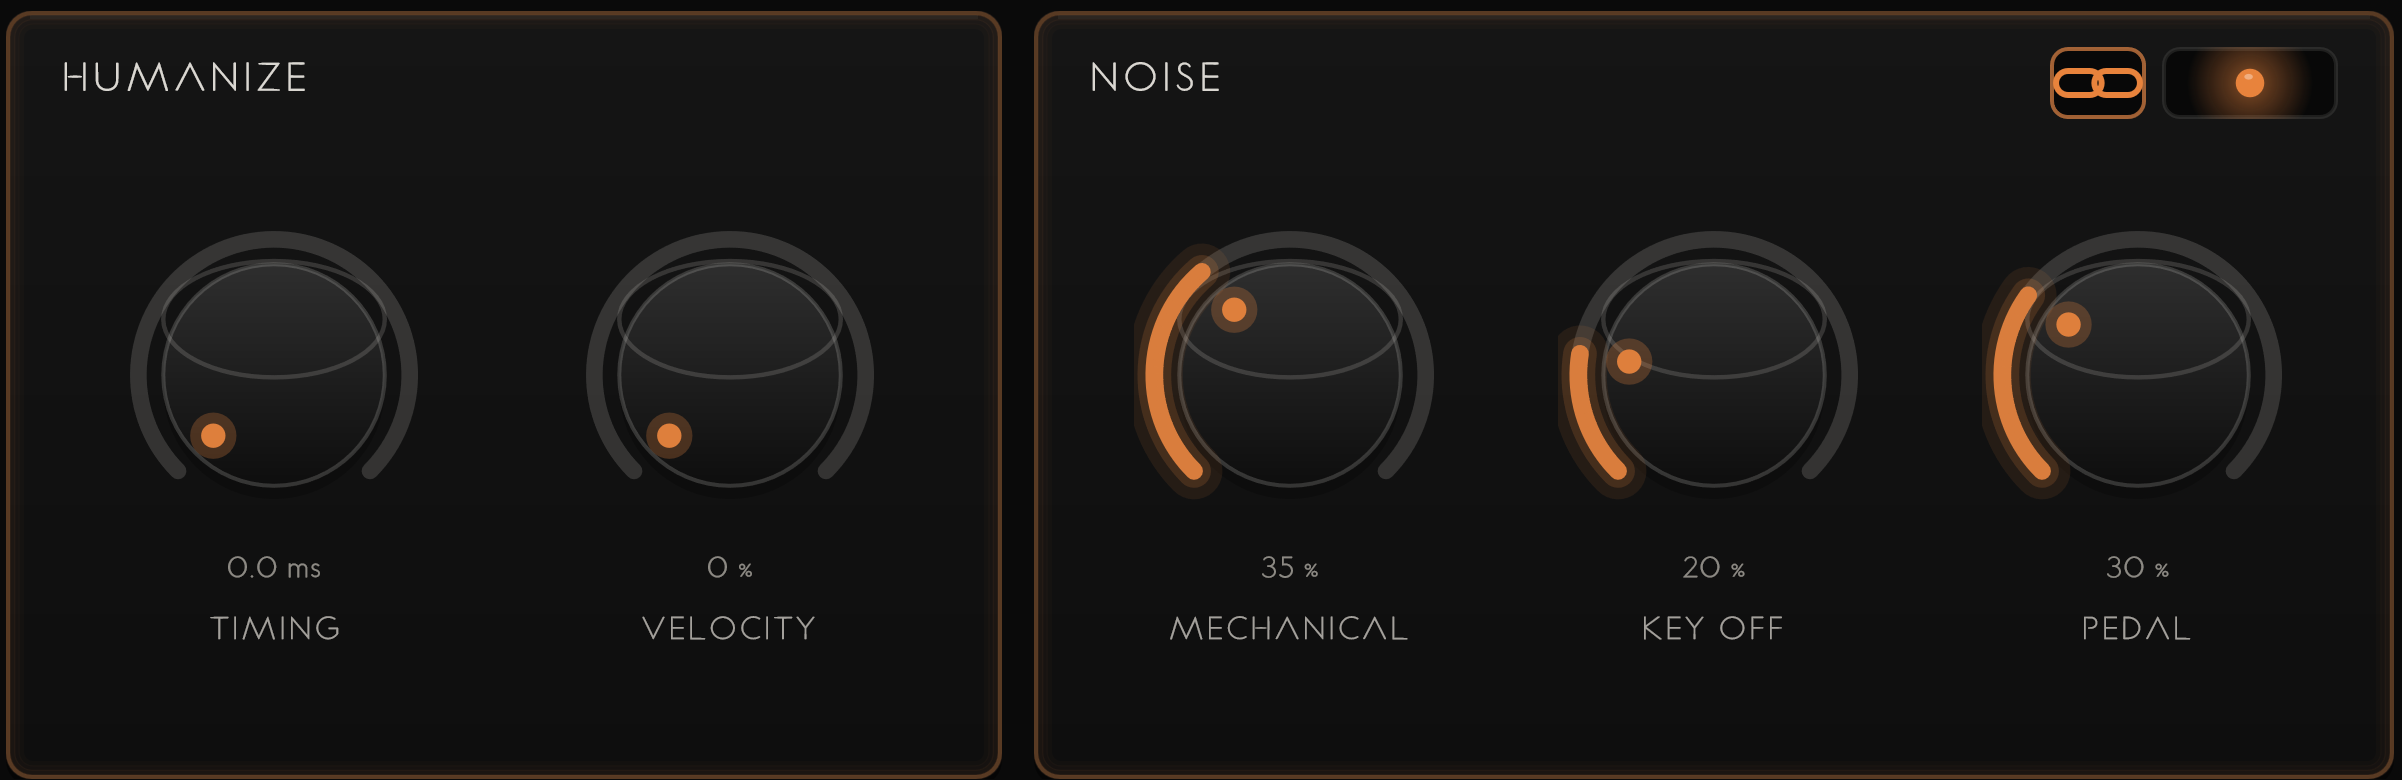
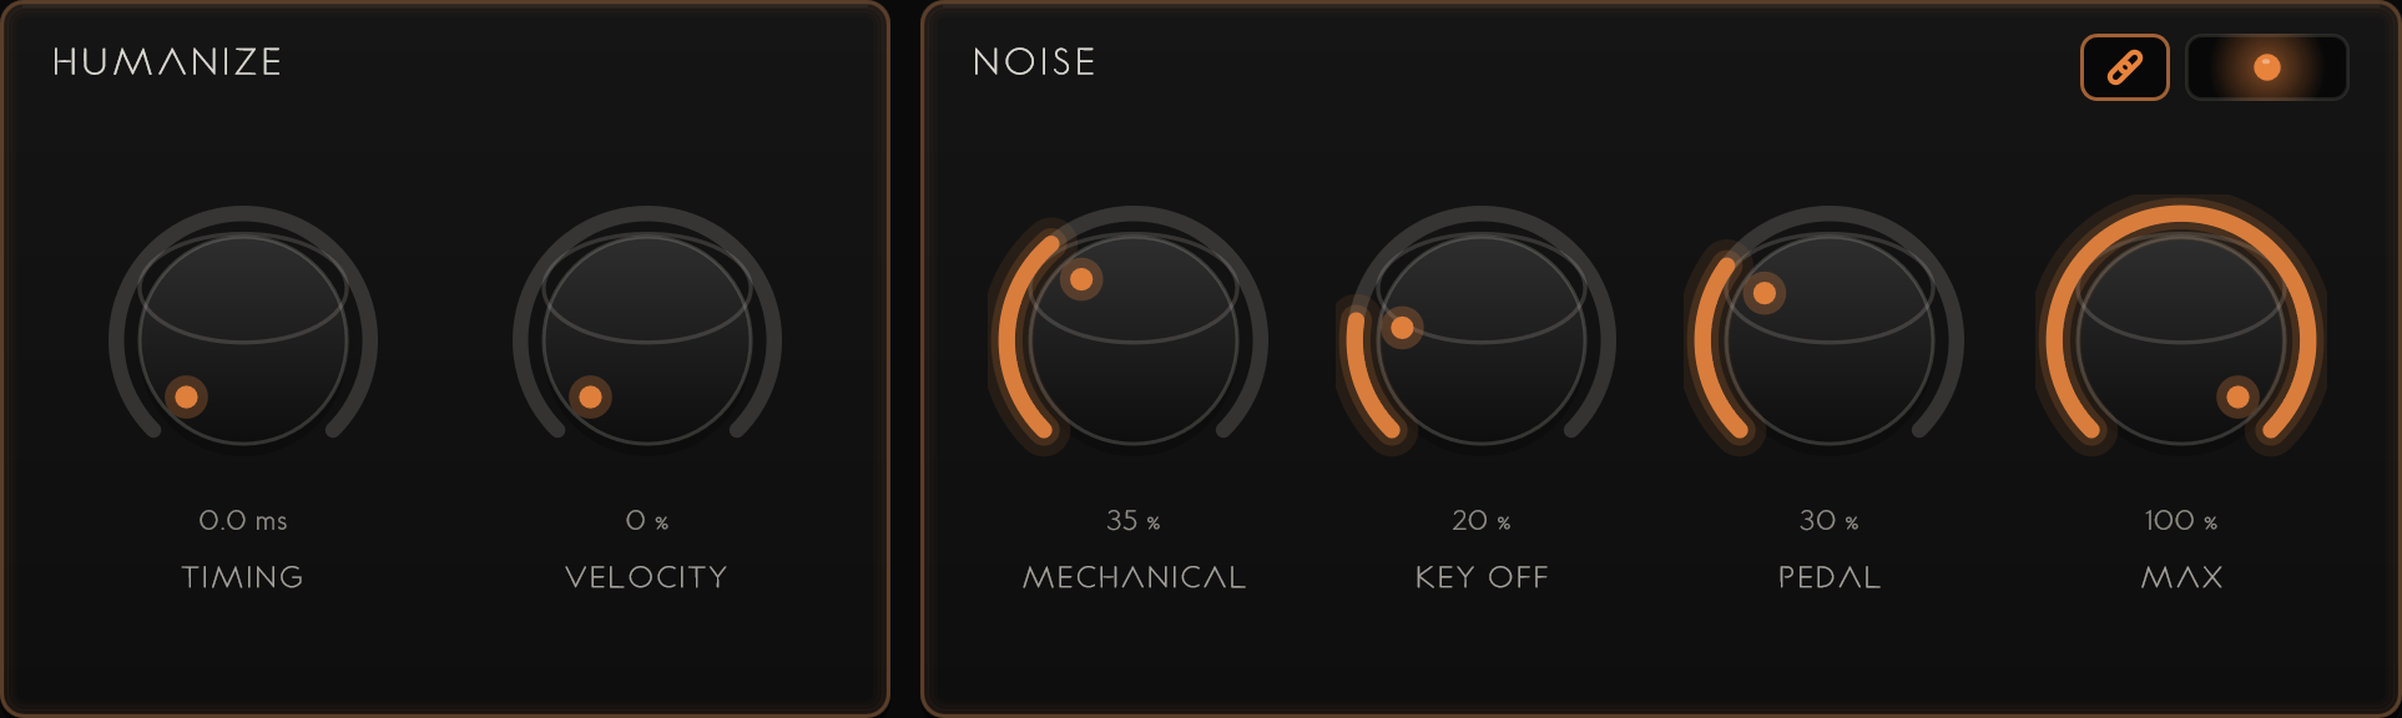
Refresh ISI Bass screenshots for the new tab layout
New hero, gallery and close-up images, with alt text and copy updated for
where the engine, velocity and sample controls now live.

diff --git a/src/lib/tools/instrument-landings.ts b/src/lib/tools/instrument-landings.ts
@@ -46,7 +46,8 @@ export type InstrumentLanding = {
 }
 
 const root = '/Plugin Screenshots/Details'
-export const landingShotSrc = (file: string) => encodeURI(`${root}/${file}`)
+export const landingShotSrc = (file: string) =>
+  encodeURI(`${root}/${file}`) + (file.startsWith('bass-') ? '?v=2' : '')
 
 export const INSTRUMENT_LANDINGS: Record<string, InstrumentLanding> = {
   'isi-bass': {
@@ -77,7 +78,7 @@ export const INSTRUMENT_LANDINGS: Record<string, InstrumentLanding> = {
         shot: {
           file: 'bass-keyboard.png',
           width: 2600,
-          height: 543,
+          height: 544,
           cssWidth: 1160,
           alt: 'ISI Bass full width playable keyboard with volume and tone faders',
         },
@@ -95,9 +96,9 @@ export const INSTRUMENT_LANDINGS: Record<string, InstrumentLanding> = {
         shot: {
           file: 'bass-engines.png',
           width: 2600,
-          height: 680,
+          height: 664,
           cssWidth: 746,
-          alt: 'ISI Bass engine selector with the 808 controls: decay, pitch drop, drop time, punch, drive, tone and octave',
+          alt: 'ISI Bass engine selector for sample, synth and 808, with release and humanize controls',
         },
       },
       {
@@ -111,9 +112,9 @@ export const INSTRUMENT_LANDINGS: Record<string, InstrumentLanding> = {
         shot: {
           file: 'bass-slide-presets.png',
           width: 1633,
-          height: 780,
+          height: 601,
           cssWidth: 408,
-          alt: 'ISI Bass slide controls and eleven 808 presets',
+          alt: 'ISI Bass 808 sculpt, sweep, drive and slide controls',
         },
         flip: true,
       },
@@ -125,7 +126,7 @@ export const INSTRUMENT_LANDINGS: Record<string, InstrumentLanding> = {
         shot: {
           file: 'bass-synth.png',
           width: 2600,
-          height: 437,
+          height: 432,
           cssWidth: 1160,
           alt: 'ISI Bass synth page with oscillators, filter and voice controls',
         },
@@ -143,7 +144,7 @@ export const INSTRUMENT_LANDINGS: Record<string, InstrumentLanding> = {
         shot: {
           file: 'bass-voicing-tone.png',
           width: 2600,
-          height: 798,
+          height: 796,
           cssWidth: 652,
           alt: 'ISI Bass instrument voicings with tone and character controls',
         },
@@ -157,7 +158,7 @@ export const INSTRUMENT_LANDINGS: Record<string, InstrumentLanding> = {
         shot: {
           file: 'bass-amp-cab.png',
           width: 2007,
-          height: 801,
+          height: 802,
           cssWidth: 502,
           alt: 'ISI Bass amp and cabinet selection with output level, pan and LED meter',
         },
@@ -173,7 +174,7 @@ export const INSTRUMENT_LANDINGS: Record<string, InstrumentLanding> = {
         shot: {
           file: 'bass-humanize-noise.png',
           width: 2402,
-          height: 780,
+          height: 718,
           cssWidth: 600,
           alt: 'ISI Bass humanize and noise controls',
         },
@@ -186,22 +187,22 @@ export const INSTRUMENT_LANDINGS: Record<string, InstrumentLanding> = {
         shot: {
           file: 'bass-velocity.png',
           width: 2215,
-          height: 780,
+          height: 856,
           cssWidth: 554,
-          alt: 'ISI Bass draggable velocity curve and release control',
+          alt: 'ISI Bass envelope controls and draggable velocity curve',
         },
       },
       {
         eyebrow: 'Performance',
         title: 'Mono, poly, glide and envelope.',
-        body: 'Switch between mono and poly, set glide, pitch bend range and velocity sensitivity, and shape attack, decay, sustain and release with a live envelope display.',
-        chips: ['Mono / Poly', 'Glide', 'Bend range', 'Vel sense', 'ADSR'],
+        body: 'Switch between mono and poly, set glide, pitch bend range and velocity sensitivity, and shape attack, decay, sustain and release with a live envelope display. Load your own samples here too.',
+        chips: ['Mono / Poly', 'Glide', 'Bend range', 'Vel sense', 'ADSR', 'Your own samples'],
         shot: {
           file: 'bass-performance.png',
           width: 2600,
-          height: 437,
+          height: 432,
           cssWidth: 1160,
-          alt: 'ISI Bass performance page with voice and envelope controls',
+          alt: 'ISI Bass performance page with voice, envelope, velocity and sample controls',
         },
         wide: true,
       },
@@ -212,14 +213,13 @@ export const INSTRUMENT_LANDINGS: Record<string, InstrumentLanding> = {
         points: [
           ['LFO and macro', 'Rate, amount, and a macro that moves several things at once.'],
           ['Sidechain ducking', 'Amount, attack and release, driven by your kick.'],
-          ['Your own samples', 'Load audio from your content folder for the sample engine.'],
         ],
         shot: {
           file: 'bass-mod.png',
           width: 2600,
-          height: 437,
+          height: 432,
           cssWidth: 1160,
-          alt: 'ISI Bass modulation, sidechain, source and sample controls',
+          alt: 'ISI Bass modulation and sidechain controls',
         },
         wide: true,
       },

diff --git a/src/lib/tools/plugins.ts b/src/lib/tools/plugins.ts
@@ -104,7 +104,7 @@ const SCREENSHOT_SIZES: Record<string, [number, number]> = {
  *  hours, so a new ?v= makes them fetch the new file instead of showing the old one. */
 const SCREENSHOT_VERSIONS: Record<string, number> = {
   'IA2A': 3,
-  'ISI Bass': 3,
+  'ISI Bass': 4,
   'Isynth 7': 1,
   'ISI Vox': 1,
   'IPI': 2,
@@ -285,11 +285,11 @@ const PLUGIN_DEFS: PluginSpec[] = [
     code: 'Isib',
     dawCategory: 'Instrument',
     gallery: [
-      { label: 'Main', src: encodeURI('/Plugin Screenshots/Details/full-bass-main.png'), width: 1800, height: 1306 },
-      { label: 'Synth', src: encodeURI('/Plugin Screenshots/Details/full-bass-synth.png'), width: 1800, height: 1306 },
-      { label: '808', src: encodeURI('/Plugin Screenshots/Details/full-bass-808.png'), width: 1800, height: 1306 },
-      { label: 'Performance', src: encodeURI('/Plugin Screenshots/Details/full-bass-performance.png'), width: 1800, height: 1306 },
-      { label: 'Mod', src: encodeURI('/Plugin Screenshots/Details/full-bass-mod.png'), width: 1800, height: 1306 },
+      { label: 'Main', src: encodeURI('/Plugin Screenshots/Details/full-bass-main.png') + '?v=2', width: 1800, height: 1306 },
+      { label: 'Synth', src: encodeURI('/Plugin Screenshots/Details/full-bass-synth.png') + '?v=2', width: 1800, height: 1306 },
+      { label: '808', src: encodeURI('/Plugin Screenshots/Details/full-bass-808.png') + '?v=2', width: 1800, height: 1306 },
+      { label: 'Performance', src: encodeURI('/Plugin Screenshots/Details/full-bass-performance.png') + '?v=2', width: 1800, height: 1306 },
+      { label: 'Mod', src: encodeURI('/Plugin Screenshots/Details/full-bass-mod.png') + '?v=2', width: 1800, height: 1306 },
     ],
     icon: 'solar:music-notes-linear',
   },
